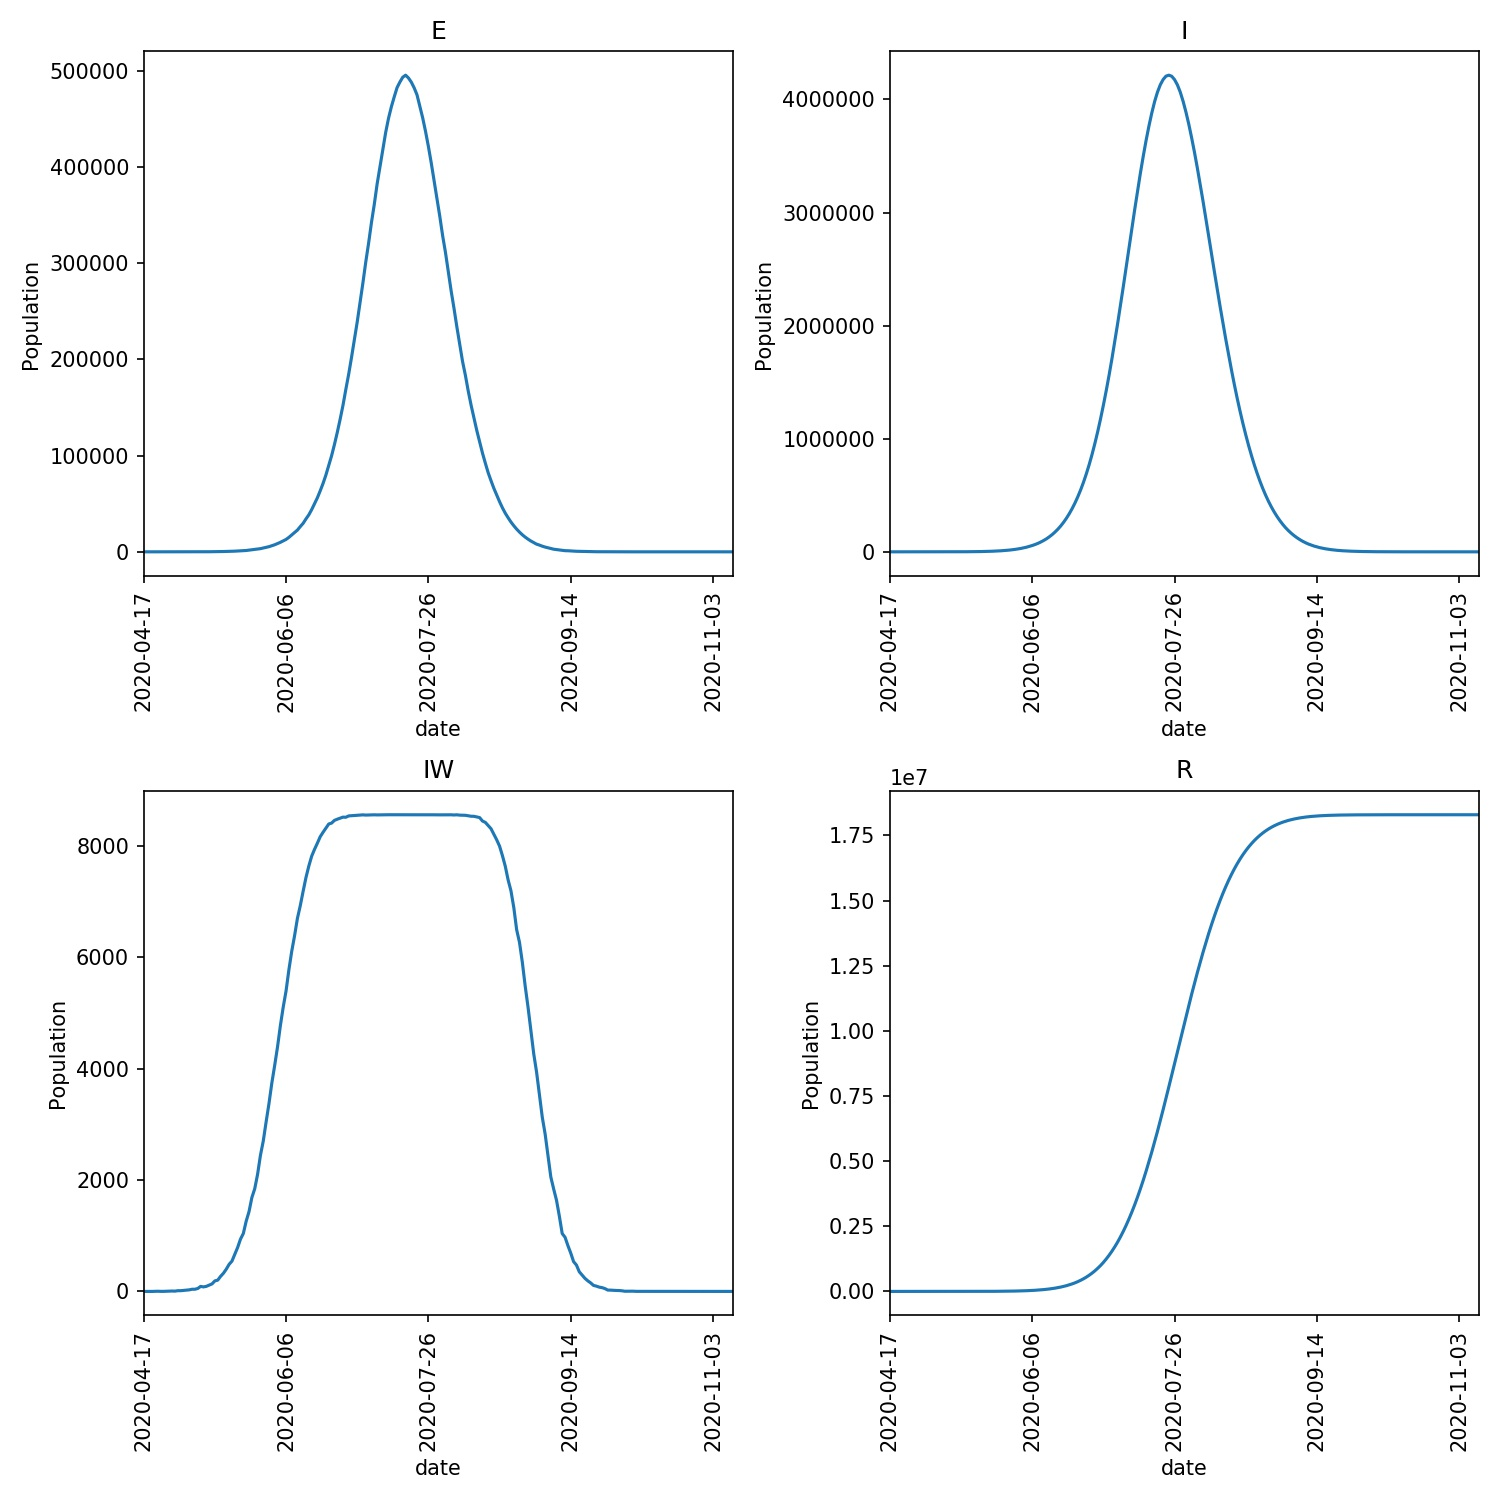
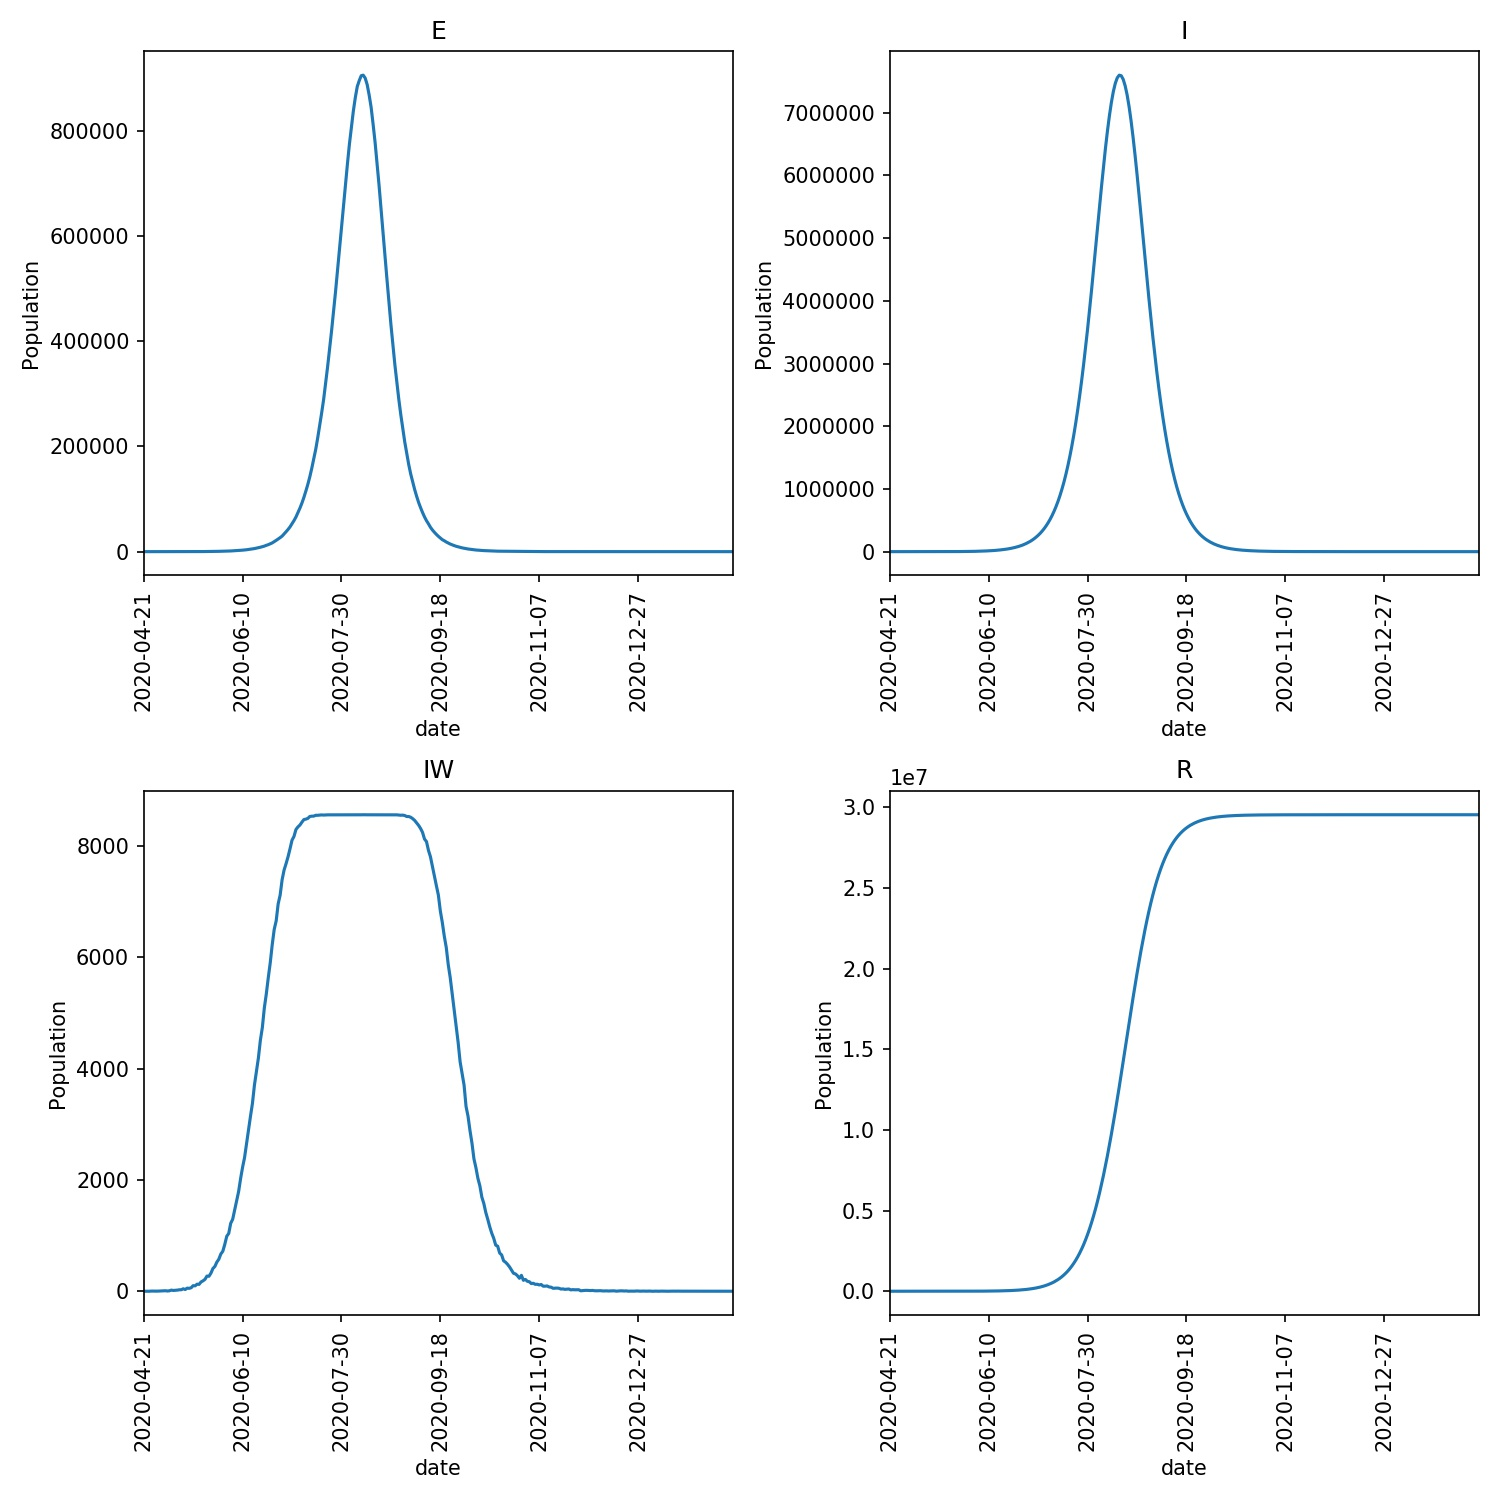
Making progress updating part 3 of the tutorial. Also set nsteps to 2 year maximum by default as lockdown simulations can be unrealistically long

diff --git a/src/metawards/app/run.py b/src/metawards/app/run.py
@@ -137,11 +137,11 @@ def parse_args():
     parser.add_argument('-P', '--population', type=int, default=57104043,
                         help="Initial population (default 57104043)")
 
-    parser.add_argument('-n', '--nsteps', type=int, default=None,
+    parser.add_argument('-n', '--nsteps', type=int, default=730,
                         help="Maximum number of steps (days) to run for the "
                              "simulation. Each step represents one day in the "
-                             "outbreak (default is to run until the "
-                             "outbreak has finished).")
+                             "outbreak (default is to run for a maximum "
+                             "of two years - 730 days)")
 
     parser.add_argument('--iterator', type=str, default=None,
                         help="Name of the iterator to use to advance the "

diff --git a/doc/source/tutorial/part03/02_weekend.rst b/doc/source/tutorial/part03/02_weekend.rst
@@ -188,20 +188,20 @@ one after another, to advance the outbreak. If you now run
 you will see that the outbreak now advances throughout the population.
 However, each day now only progresses new infections using the "play" mode
 :meth:`~metawards.iterators.advance_play`. The "work" mode
-:meth:`~metawards.iterators.advance_fixed`, meaning each day
-is more like a weekend.
+:meth:`~metawards.iterators.advance_fixed`, is not used, meaning
+that every day is now modelled as like a weekend.
 
 Create an overview graph of your "weekend only" run and compare it to
 the results from the "weekday only" runs in
-:doc:`part 2 <../part02/05_refining`. Do you see a difference?
+:doc:`part 2 <../part02/05_refining>`. Do you see a difference?
 
 My graph is shown below;
 
 .. image:: ../../images/tutorial_3_2_1_overview.jpg
    :alt: Overview image of a weekend only run
 
-It is clear that the outbreak is now much smaller, peaking at 4 million
-as opposed to over 20 million. The peak is also significantly broadened
+It is clear that the outbreak is now much smaller, peaking at 7 million
+as opposed to nearly 20 million. The peak is also broadened
 out, with the outbreak lasting months rather than weeks.
 
 Changing iterators with time
